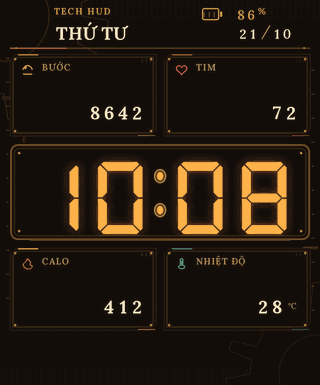
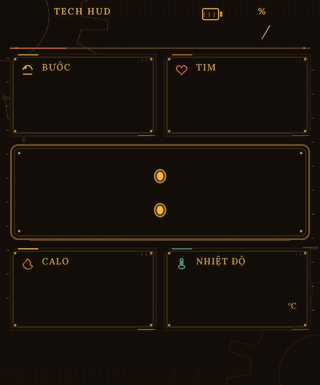
v1.1.4: dùng background tĩnh làm preview nội bộ
- Preview tổng hợp v1.1.3 làm đồng hồ reboot khi mở danh sách chọn mặt.
- Chẩn đoán trên thiết bị: toạ độ v1.1.3 an toàn, background v1.1.3 an toàn,
  preview tổng hợp v1.1.3 là nguyên nhân.
- Compiler nhận background làm preview nội bộ; ảnh design/preview.png vẫn
  là ảnh tổng hợp đầy đủ cho release.
- Thêm test bảo đảm preview nội bộ trùng background; 36 test pass.
- Vẫn giữ pre-release cho tới khi xác nhận bản CI trên thiết bị.

diff --git a/scripts/generate_assets.py b/scripts/generate_assets.py
@@ -614,10 +614,16 @@ def main() -> int:
     for path in sorted(SRC_IMAGES.glob("*.png")):
         assets[path.stem] = Image.open(path).convert("RGBA")
 
-    raw_preview = build_preview(background, assets)
-    save_png(raw_preview, PREVIEW_RAW_PATH)
-    save_png(raw_preview, SRC_IMAGES / "preview.png")
-    save_png(build_captioned_preview(raw_preview), PREVIEW_PATH)
+    # The watch face preview is also parsed by the firmware's selection
+    # screen.  The v1.1.3 composite preview triggers a reboot on the target
+    # device, while the background bitmap is known safe.  Keep the full
+    # illustrative composite for the release image, but feed the background
+    # to the compiler as the on-watch selection thumbnail.
+    full_preview = build_preview(background, assets)
+    watch_preview = background.copy()
+    save_png(watch_preview, PREVIEW_RAW_PATH)
+    save_png(watch_preview, SRC_IMAGES / "preview.png")
+    save_png(build_captioned_preview(full_preview), PREVIEW_PATH)
 
     fprj = build_fprj()
     FPRJ_PATH.write_text(fprj, encoding="utf-8", newline="\n")
@@ -627,6 +633,7 @@ def main() -> int:
         "fprj_sha256": sha256_file(FPRJ_PATH),
         "background_sha256": sha256_file(BACKGROUND_PATH),
         "preview_sha256": sha256_file(PREVIEW_PATH),
+        "watch_preview_sha256": sha256_file(PREVIEW_RAW_PATH),
         "images": {
             path.name: sha256_file(path) for path in sorted(SRC_IMAGES.glob("*.png"))
         },

diff --git a/tests/test_assets.py b/tests/test_assets.py
@@ -2,7 +2,7 @@ import subprocess
 import sys
 from pathlib import Path
 
-from PIL import Image, ImageDraw
+from PIL import Image, ImageChops, ImageDraw
 
 ROOT = Path(__file__).resolve().parents[1]
 sys.path.insert(0, str(ROOT / "scripts"))
@@ -84,6 +84,17 @@ def test_assets_and_vietnamese_glyphs():
     result = run("validate_assets.py")
     assert result.returncode == 0, result.stdout + result.stderr
     assert "Vietnamese glyph coverage complete" in result.stdout
+
+
+def test_watch_preview_is_the_safe_background():
+    background = Image.open(ROOT / "src" / "watchface" / "images" / "background.png").convert("RGBA")
+    for path in (
+        ROOT / "src" / "watchface" / "preview.png",
+        ROOT / "src" / "watchface" / "images" / "preview.png",
+    ):
+        preview = Image.open(path).convert("RGBA")
+        difference = ImageChops.difference(preview, background).getbbox()
+        assert difference is None, f"{path} must match the safe background bitmap"
 
 
 def test_generation_is_deterministic():

diff --git a/scripts/package_release.py b/scripts/package_release.py
@@ -113,6 +113,7 @@ def write_notes(target: Path, version: str, prerelease: bool, record: dict, chec
 - Nhiệt độ 3 chữ số, hỗ trợ giá trị âm (`-5`, `-10`, `-20`); đơn vị `°C` canh giữa theo chiều dọc với giá trị.
 - Bỏ hoàn toàn vòng MỤC TIÊU, giá trị phần trăm và source `1021`; không còn cụm bánh răng/thanh đế phía dưới.
 - Toàn bộ nội dung nằm trong vùng an toàn của màn hình bo góc bán kính 82 px; không đặt chữ/số sát bốn góc.
+- Ảnh thu nhỏ trong danh sách chọn mặt dùng background tĩnh để tránh lỗi reboot của preview tổng hợp trên firmware hiện tại; ảnh xem trước phát hành vẫn hiển thị đầy đủ thiết kế.
 - Build tự động, kiểm tra cấu trúc nhị phân, checksum SHA-256 và GitHub Actions.
 
 ## Ảnh xem trước

diff --git a/README.md b/README.md
@@ -6,6 +6,8 @@ Mặt đồng hồ tuỳ chỉnh phong cách **steampunk / brass**, giao diện 
 
 > Ảnh xem trước dùng **số liệu minh họa**. Trên đồng hồ, các giá trị lấy từ cảm biến và ứng dụng điện thoại đã kết nối.
 
+> **Ghi chú v1.1.4:** ảnh thu nhỏ trong danh sách chọn mặt trên đồng hồ dùng chính background tĩnh, không có số/chữ. Bản preview tổng hợp đầy đủ của v1.1.3 gây reboot trên thiết bị thật; ảnh xem trước phát hành (`design/preview.png`) vẫn hiển thị đầy đủ thiết kế.
+
 ---
 
 ## 1. Giới thiệu
@@ -50,10 +52,10 @@ Dự án tạo ra một mặt đồng hồ số thực thụ bằng compiler Gen
 | Compiler | Mi Create `compile.exe`, pin commit + SHA-256 |
 | Build on CI | GitHub Actions `windows-2022` |
 | Kiểm tra cấu trúc `.bin` | Có, tự động |
-| **Kiểm thử trên máy thật** | **Chưa thực hiện** |
+| **Kiểm thử trên máy thật** | **Chẩn đoán đã chạy; bản phát hành v1.1.4 chưa xác nhận** |
 | Kênh phát hành | **Pre-release** cho tới khi có xác nhận thiết bị |
 
-> Chưa có bằng chứng cài đặt và hiển thị trên Redmi Watch 5 Active thật. Vì vậy mọi release hiện tại là **pre-release**. Xem [docs/device-test.md](docs/device-test.md) để biết cách xác nhận.
+> Các binary chẩn đoán đã được thử trên Redmi Watch 5 Active thật: toạ độ mới an toàn, background v1.1.3 an toàn, preview tổng hợp v1.1.3 gây reboot. Bản `tech-hud-vi.bin` v1.1.4 build từ CI vẫn cần được cài và xác nhận. Vì vậy release hiện tại là **pre-release**. Xem [docs/device-test.md](docs/device-test.md) để biết cách xác nhận.
 
 ### Vì sao không có ô KM?
 
@@ -123,7 +125,7 @@ python3 -m pytest -q
 ### Chỉ tạo preview và source package (không cần compiler)
 
 ```bash
-python3 scripts/package_release.py --version v1.1.3
+python3 scripts/package_release.py --version v1.1.4
 ```
 
 Kết quả nằm trong `dist/`. Khi không có compiler, **không** có `tech-hud-vi.bin`; script ghi rõ điều đó trong `BUILD-INFO.txt`.
@@ -193,8 +195,8 @@ Artifact của pull request **không** kèm binary.
 
 ```bash
 # Tag phát hành (pre-release tự động vì chưa test thiết bị)
-git tag v1.1.3
-git push origin v1.1.3
+git tag v1.1.4
+git push origin v1.1.4
 ```
 
 Hoặc **Actions → build-watchface → Run workflow**, nhập tag đã tồn tại và chọn `release=true`.

diff --git a/docs/format-research.md b/docs/format-research.md
@@ -63,6 +63,7 @@ Các ràng buộc này được cài đặt trong `scripts/common.py` (`fit_comp
 - Preview và fprj dùng cùng một bộ bitmap, nên không có sai lệch giữa ảnh xem trước và mặt đồng hồ.
 - Màn hình có bán kính bo góc **82 px**. `validate_assets.py` kiểm tra bốn góc của mọi panel, icon, widget và nhãn nằm trong hình chữ nhật bo góc; preview cũng được mask theo đúng bán kính này.
 - Panel/nhãn trạng thái và bitmap kết nối đã được bỏ từ v1.0.3; vòng MỤC TIÊU, giá trị phần trăm và source `1021` đã được bỏ từ v1.1.1. Bốn panel dữ liệu được đặt quanh đồng hồ trung tâm từ v1.1.3; v1.1.2 căn thẳng hàng nội dung và hỗ trợ nhiệt độ âm.
+- Từ v1.1.4, ảnh preview nội bộ đưa cho compiler là **background tĩnh**, không phải ảnh tổng hợp có số/chữ. Preview tổng hợp của v1.1.3 làm đồng hồ reboot khi mở danh sách chọn mặt; background đã được xác nhận an toàn trên thiết bị. Ảnh xem trước phát hành `design/preview.png` vẫn là ảnh tổng hợp đầy đủ.
 - Từ v1.0.4, `draw_text()` vẽ từng ký tự bằng anchor `ls` trên một baseline chung (lấy từ cap height của `H`). Trước đó anchor `lt` căn theo đỉnh từng glyph nên chữ có dấu tiếng Việt bị tụt xuống so với chữ không dấu.
 
 ## 5. Dữ liệu

diff --git a/docs/device-test.md b/docs/device-test.md
@@ -1,6 +1,8 @@
 # Kiểm thử trên thiết bị thật
 
-Trạng thái hiện tại: **CHƯA THỰC HIỆN**.
+Trạng thái hiện tại: **CHƯA XÁC NHẬN BẢN PHÁT HÀNH**.
+
+Đã có bằng chứng chẩn đoán trên thiết bị thật cho các binary vá cục bộ: toạ độ v1.1.3 an toàn, background v1.1.3 an toàn, preview v1.1.3 gây reboot. Cấu hình v1.1.4 dùng background làm preview nội bộ cũng đã chạy trên thiết bị khi kiểm thử cục bộ (`diag-E`). Tuy nhiên bản `tech-hud-vi.bin` phát hành từ CI vẫn cần được cài và xác nhận lại trước khi chuyển kênh stable.
 
 Repo chỉ cho phép phát hành **stable** khi `tests/device_verification.json` có `"verified": true`. Đây là cổng bắt buộc, không phải gợi ý.
 
